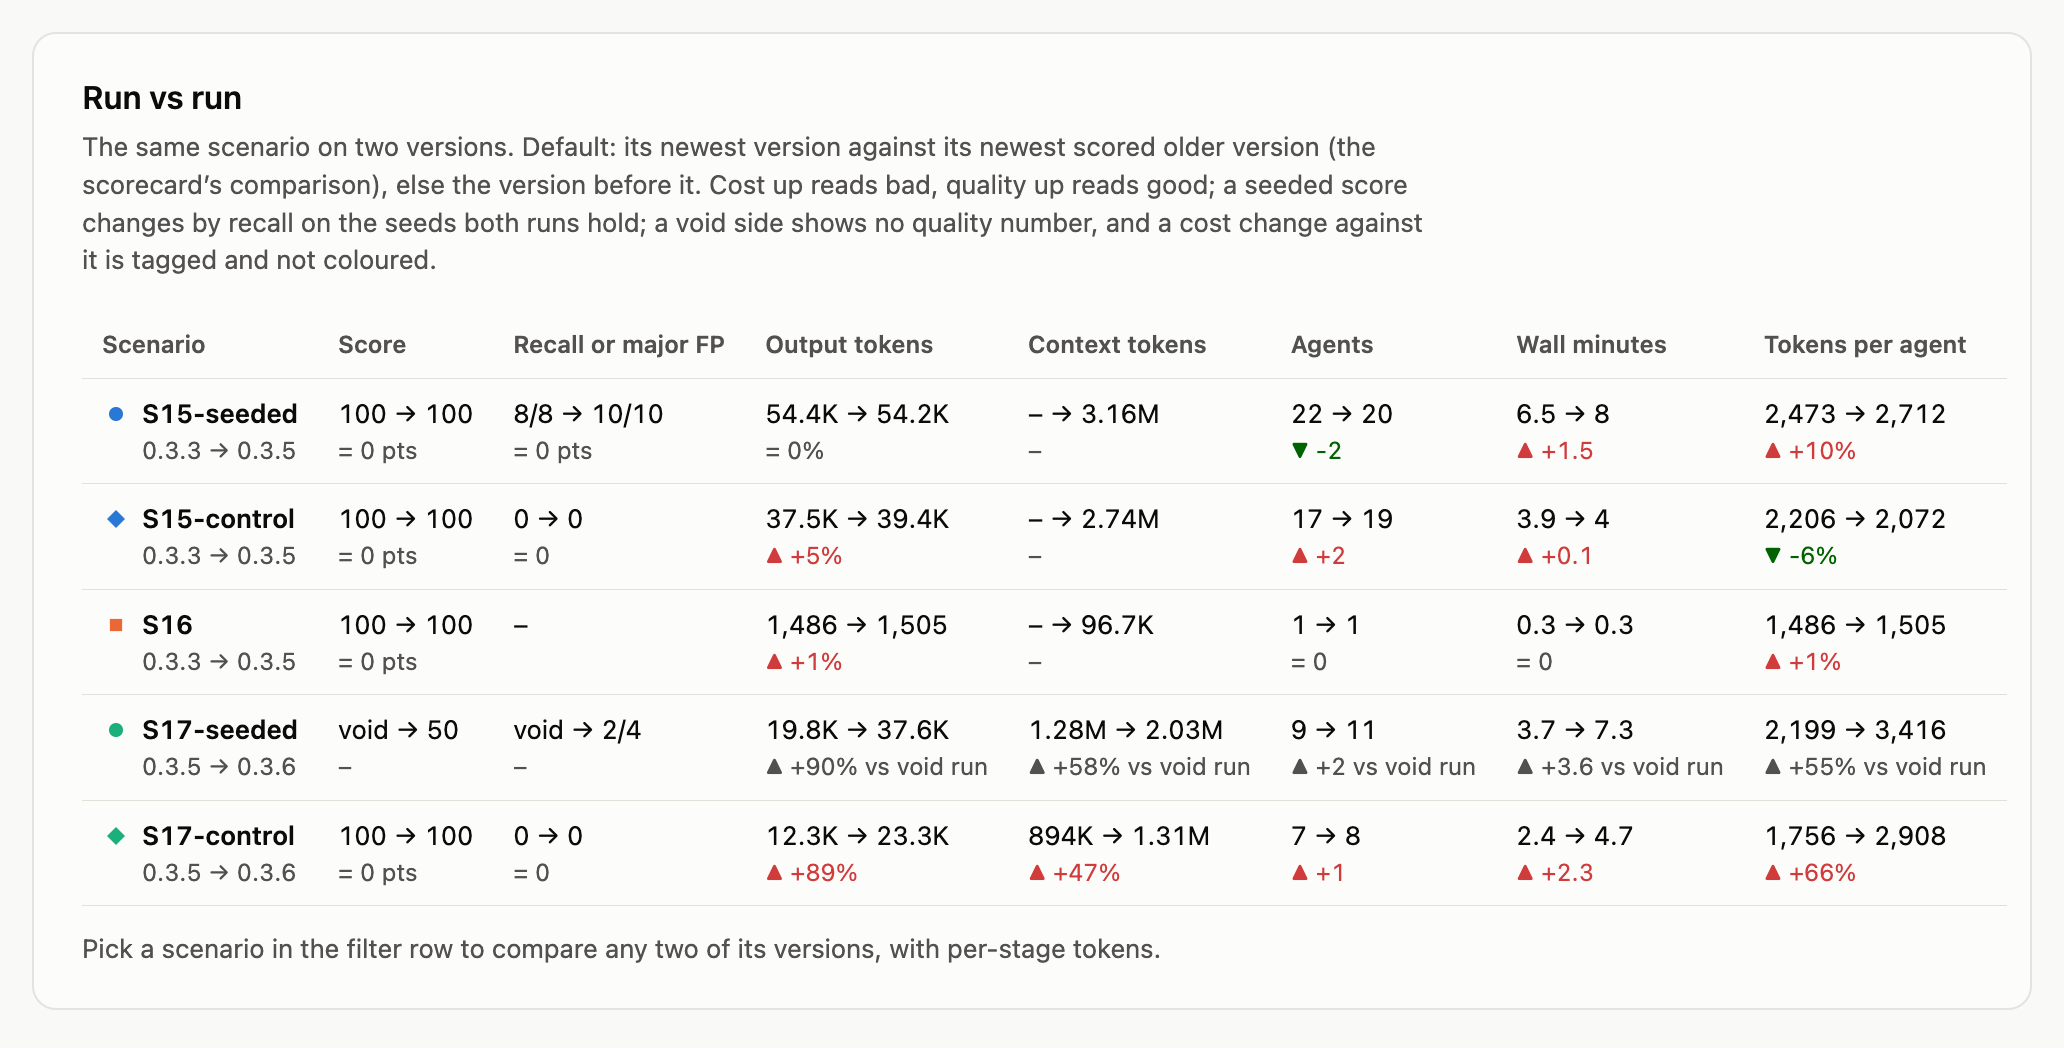
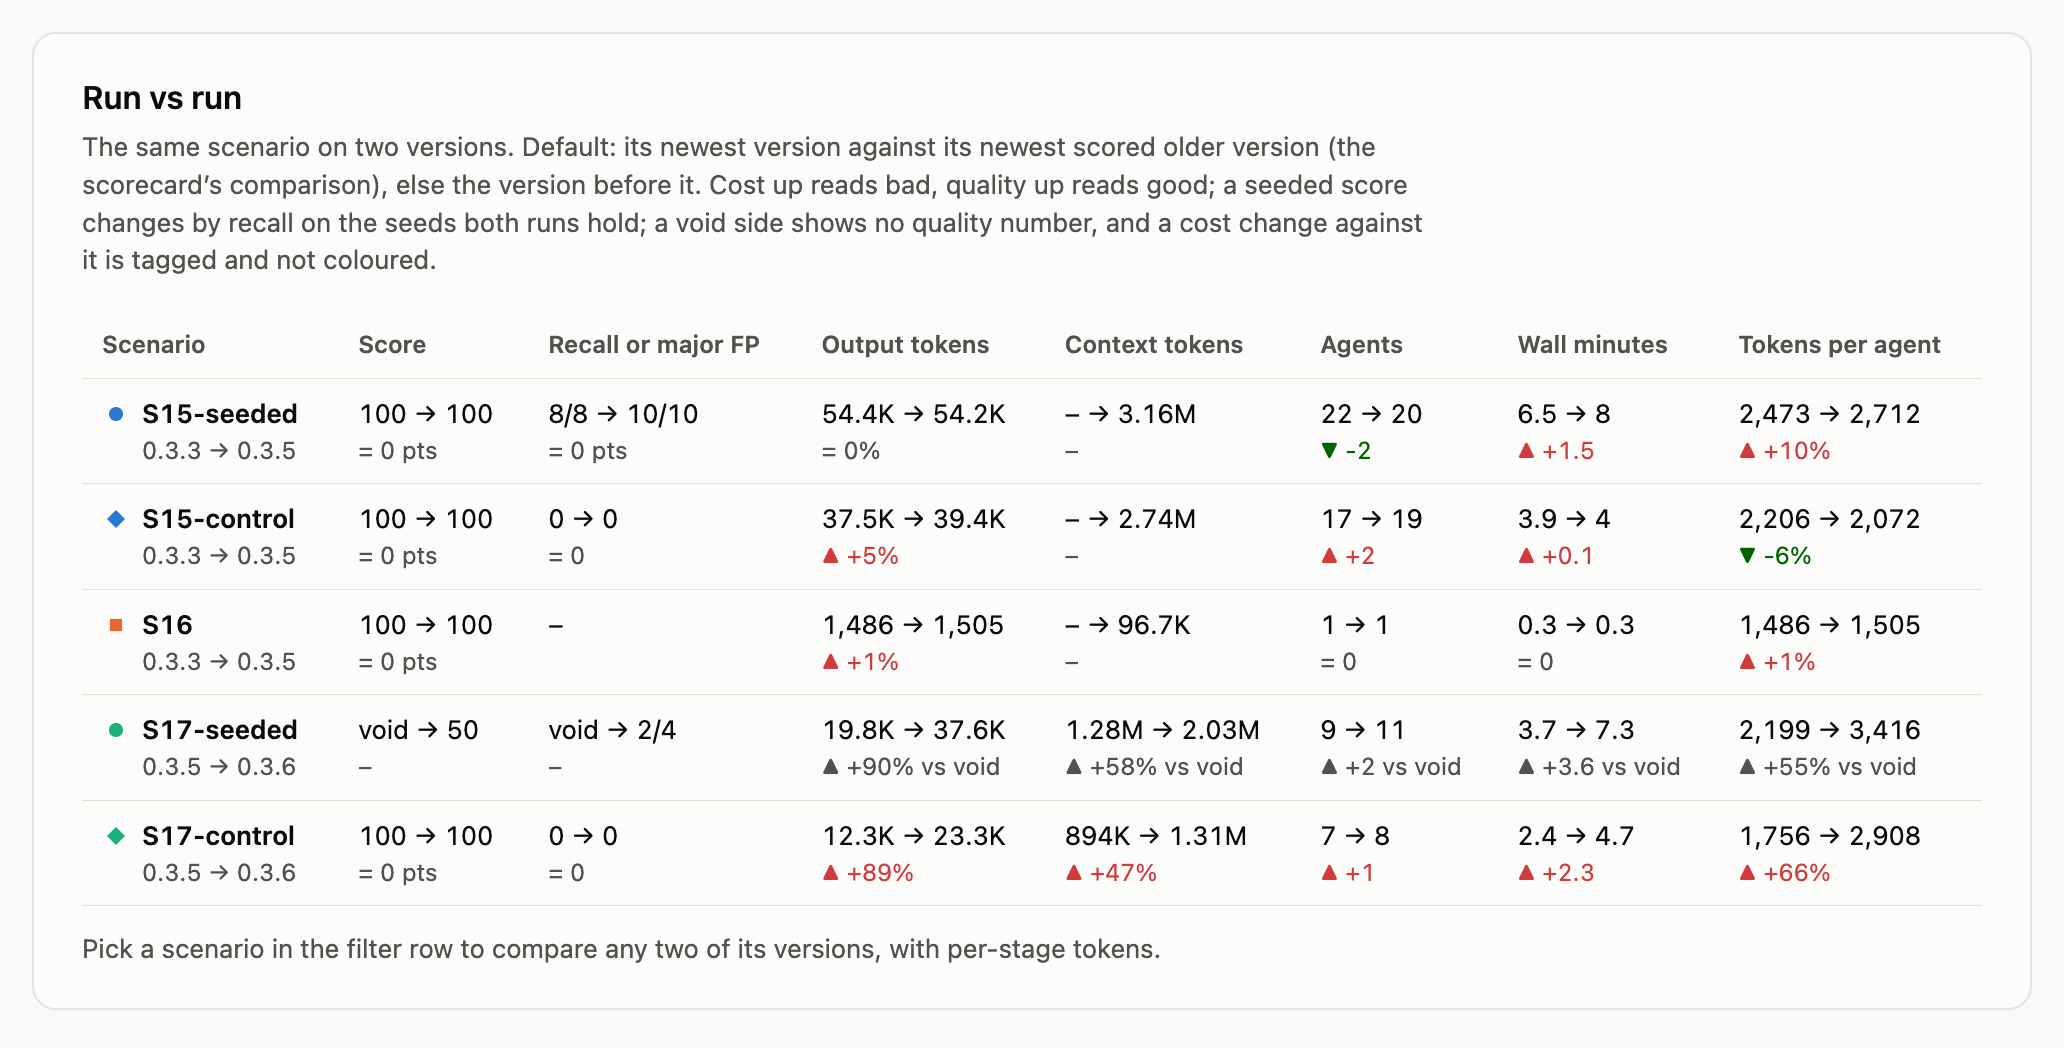
Evals report: one void-change rule for run vs run and trends
A change with a void side is tagged "vs void" and never coloured, in the run-vs-run
rows and the trend panels alike (voidTag, tested). Delta lines in the run-vs-run
table wrap, so the table stays inside its card.

diff --git a/evals/report.html b/evals/report.html
@@ -58,7 +58,7 @@ rect.st-pass{fill:var(--t-pass)}rect.st-fail{fill:var(--t-fail)}rect.st-partial{
 .matrix th,.matrix td{padding:8px 10px;border-bottom:.5px solid var(--grid);white-space:nowrap}
 .matrix tbody th,.matrix thead th:first-child{position:sticky;left:0;background:var(--surface);z-index:1}.matrix thead th{text-align:center}.matrix thead th:first-child{text-align:left}
 .matrix td.cell{text-align:center;border-left:2px solid var(--surface);border-radius:6px;font-weight:600}
-.matrix td.delta{font-size:12px;color:var(--ink2)}
+.matrix td.delta{font-size:12px;color:var(--ink2)}.matrix td div:not(.pair){white-space:normal}
 .matrix tbody th{color:var(--ink);font-size:13px}.matrix tbody th>div:first-child,.matrix tbody th:not(.scn){display:flex;align-items:center;gap:6px}.matrix .vs{font-weight:400;color:var(--ink2);font-size:12px;margin-left:20px}
 .matrix tfoot th,.matrix tfoot td{font-weight:400;color:var(--ink2);font-size:12px;text-align:center;border-bottom:none}
 .matrix tfoot th{text-align:left}.matrix tfoot td.delta{white-space:normal;min-width:150px}.matrix tfoot b{color:var(--ink);font-size:13px;display:block}
@@ -248,13 +248,12 @@ function defaultPair(runs, scenario) {
   const v = scenarioVersions(runs, scenario), top = runOf(runs, scenario, v.at(-1))
   return v.length ? { base: (top && previousOf(runs, top)?.hydraVersion) ?? v.at(-2) ?? v.at(-1), compare: v.at(-1) } : null
 }
+function voidTag(d, a, b) { return d && (passBar(a) === 'void' || passBar(b) === 'void') ? { text: `${d.text} vs void`, cls: '' } : d }
 function compareRows(a, b) {
   const na = normCost(a), nb = normCost(b), va = passBar(a) === 'void', vb = passBar(b) === 'void'
   const row = (label, x, y, better, unit, f = String, q) => {
     const s = (v, isVoid) => q && isVoid ? 'void' : v == null ? '–' : f(v)
-    const d = q && (va || vb) ? null : change(y, x, better, unit)
-    // a cost change against a void run is real but not a like-for-like comparison: tagged, never coloured
-    return { label, base: s(x, va), compare: s(y, vb), delta: d && (va || vb) ? { text: `${d.text} vs void run`, cls: '' } : d }
+    return { label, base: s(x, va), compare: s(y, vb), delta: q && (va || vb) ? null : voidTag(change(y, x, better, unit), a, b) }
   }
   const sd = r => { const s = seeds(r); return `${s.caught}/${s.kept}` }, seeded = b.scenario.endsWith('-seeded'), ctl = b.scenario.endsWith('-control'), tok = v => fmt(Math.round(v))
   const recall = seeded && { label: 'Recall', base: va ? 'void' : sd(a), compare: vb ? 'void' : sd(b), delta: null }
@@ -594,7 +593,7 @@ function runFields(r) {
       // a void run is not on the value axis: quality rows mark it ⊘ at mid-row, never on the 0 baseline
       rs.forEach((r, i) => { if (vals[i] != null) mark(s, sc, X(i), Y(vals[i]), 4, isVoid(r)); else if (quality && isVoid(r)) t(s, X(i), y0 + RH / 2 + 4, '⊘', 'muted', 'middle') })
       const lv = vals.at(-1), pr = rs.at(-2), rd = seeded && !j && pr && !isVoid(lr) && !isVoid(pr) ? recallDelta(lr, pr) : null
-      const dl = rd !== null ? { text: `${arrow(rd)}${rd} pts`, cls: rd > 0 ? 'good' : rd < 0 ? 'bad' : '' } : rs.length > 1 ? change(lv, vals.at(-2), better, unit) : null
+      const dl = rd !== null ? { text: `${arrow(rd)}${rd} pts`, cls: rd > 0 ? 'good' : rd < 0 ? 'bad' : '' } : rs.length > 1 ? voidTag(change(lv, vals.at(-2), better, unit), lr, pr) : null
       t(s, W, y0 + 15, lv == null ? (quality && isVoid(lr) ? 'void' : '–') : f(lv), 'ink b', 'end')
       if (dl) t(s, W, y0 + 28, dl.text, `muted ${dl.cls}`, 'end')
     })

diff --git a/evals/README.md b/evals/README.md
@@ -60,7 +60,7 @@ Progress first, one PNG per section, in page order:
 - **progress:** the per-run progress chart (run score and the combined-score step line, last 16 runs).
 - **scorecard:** scenarios × versions. A cell is the scenario's newest run at that version: `caught/kept` on a seeded run, `0 FP` or `N major FP` on a control, `pass`/`fail` on S16, `void`, or `–` when it did not run. Tint: pass, partial (a seeded pass that missed a kept seed), fail, void (neutral). The last column is the newest run against the newest scored run on an older version (recall points on the seeds both hold, major false positives, or the S16 verdict). Footer: the combined score as of each version, and output tokens per agent as the mean of per-run ratios over that version's scored runs; its change compares only the scenarios both versions scored ("on N shared scenarios").
 - **trends:** one panel per scenario, one column per run: score or recall, major false positives on a control, output and context tokens, agents, wall minutes, tokens per kept and per caught seed (seeded) and per agent. A void run shows ⊘ in quality rows, off the value axis, and a hollow marker on cost rows. The recall change is on the seeds both runs hold. Hover or focus a column for every field of the run.
-- **compare (run vs run):** pick a scenario in the filter row, then Base and Compare (default: its newest version against its newest scored older version, as the scorecard compares; with none, the version before it, void or not, since its cost counts). Tiles show before → after with the change (cost up reads bad, quality up good; a seeded score changes by recall on the shared seeds; a cost change against a void run is tagged "vs void run" and not coloured), normalized cost below, and per-stage output and context tokens as two grouped-bar charts. With all scenarios selected (and in the PNG) it is one table of every scenario's default pair.
+- **compare (run vs run):** pick a scenario in the filter row, then Base and Compare (default: its newest version against its newest scored older version, as the scorecard compares; with none, the version before it, void or not, since its cost counts). Tiles show before → after with the change (cost up reads bad, quality up good; a seeded score changes by recall on the shared seeds; a cost change against a void run is tagged "vs void" and not coloured, as in the trend panels), normalized cost below, and per-stage output and context tokens as two grouped-bar charts. With all scenarios selected (and in the PNG) it is one table of every scenario's default pair.
 - **heatmap:** per planted defect, which stage caught it.
 - **cost:** per scenario, output tokens per stage and version on one scale, with agents, totals, per-agent and context.
 - **pipeline:** the pipeline diagram with one run's per-stage tokens.
